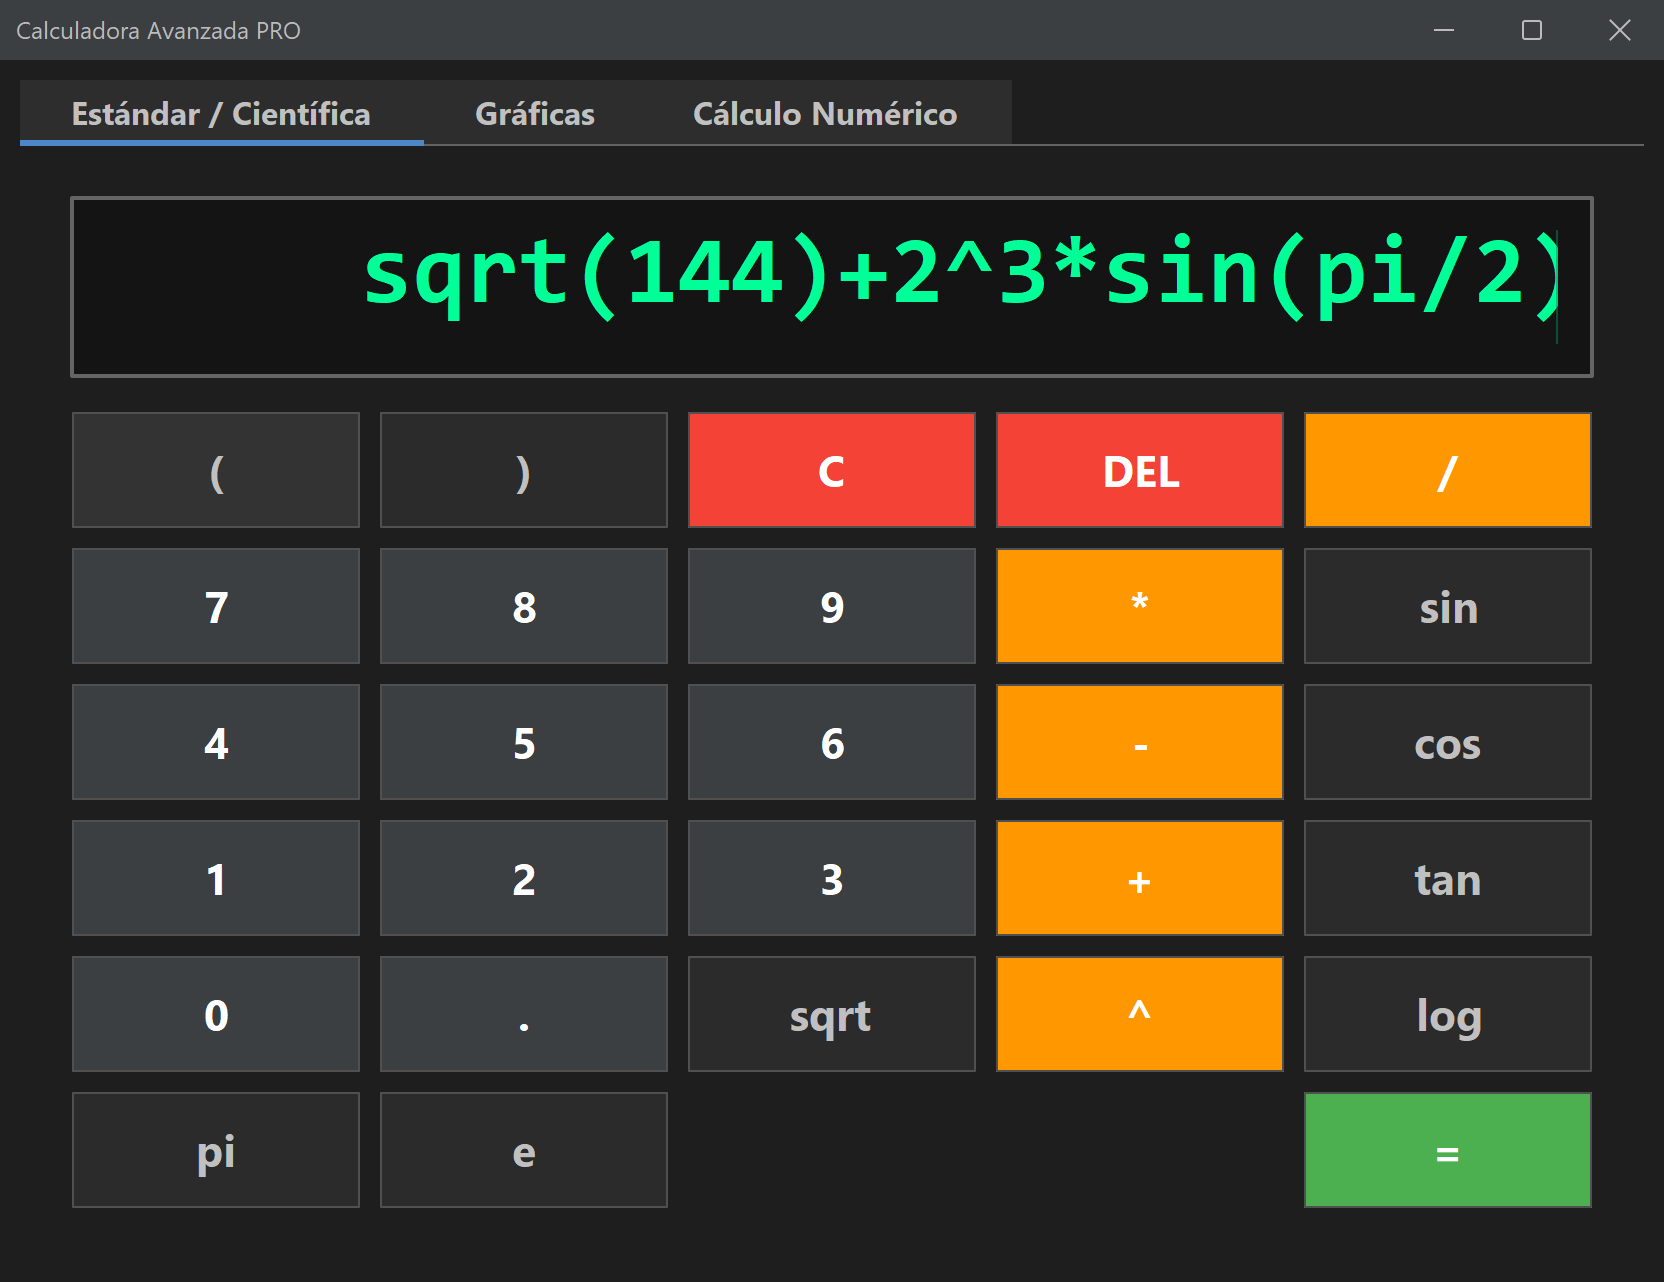
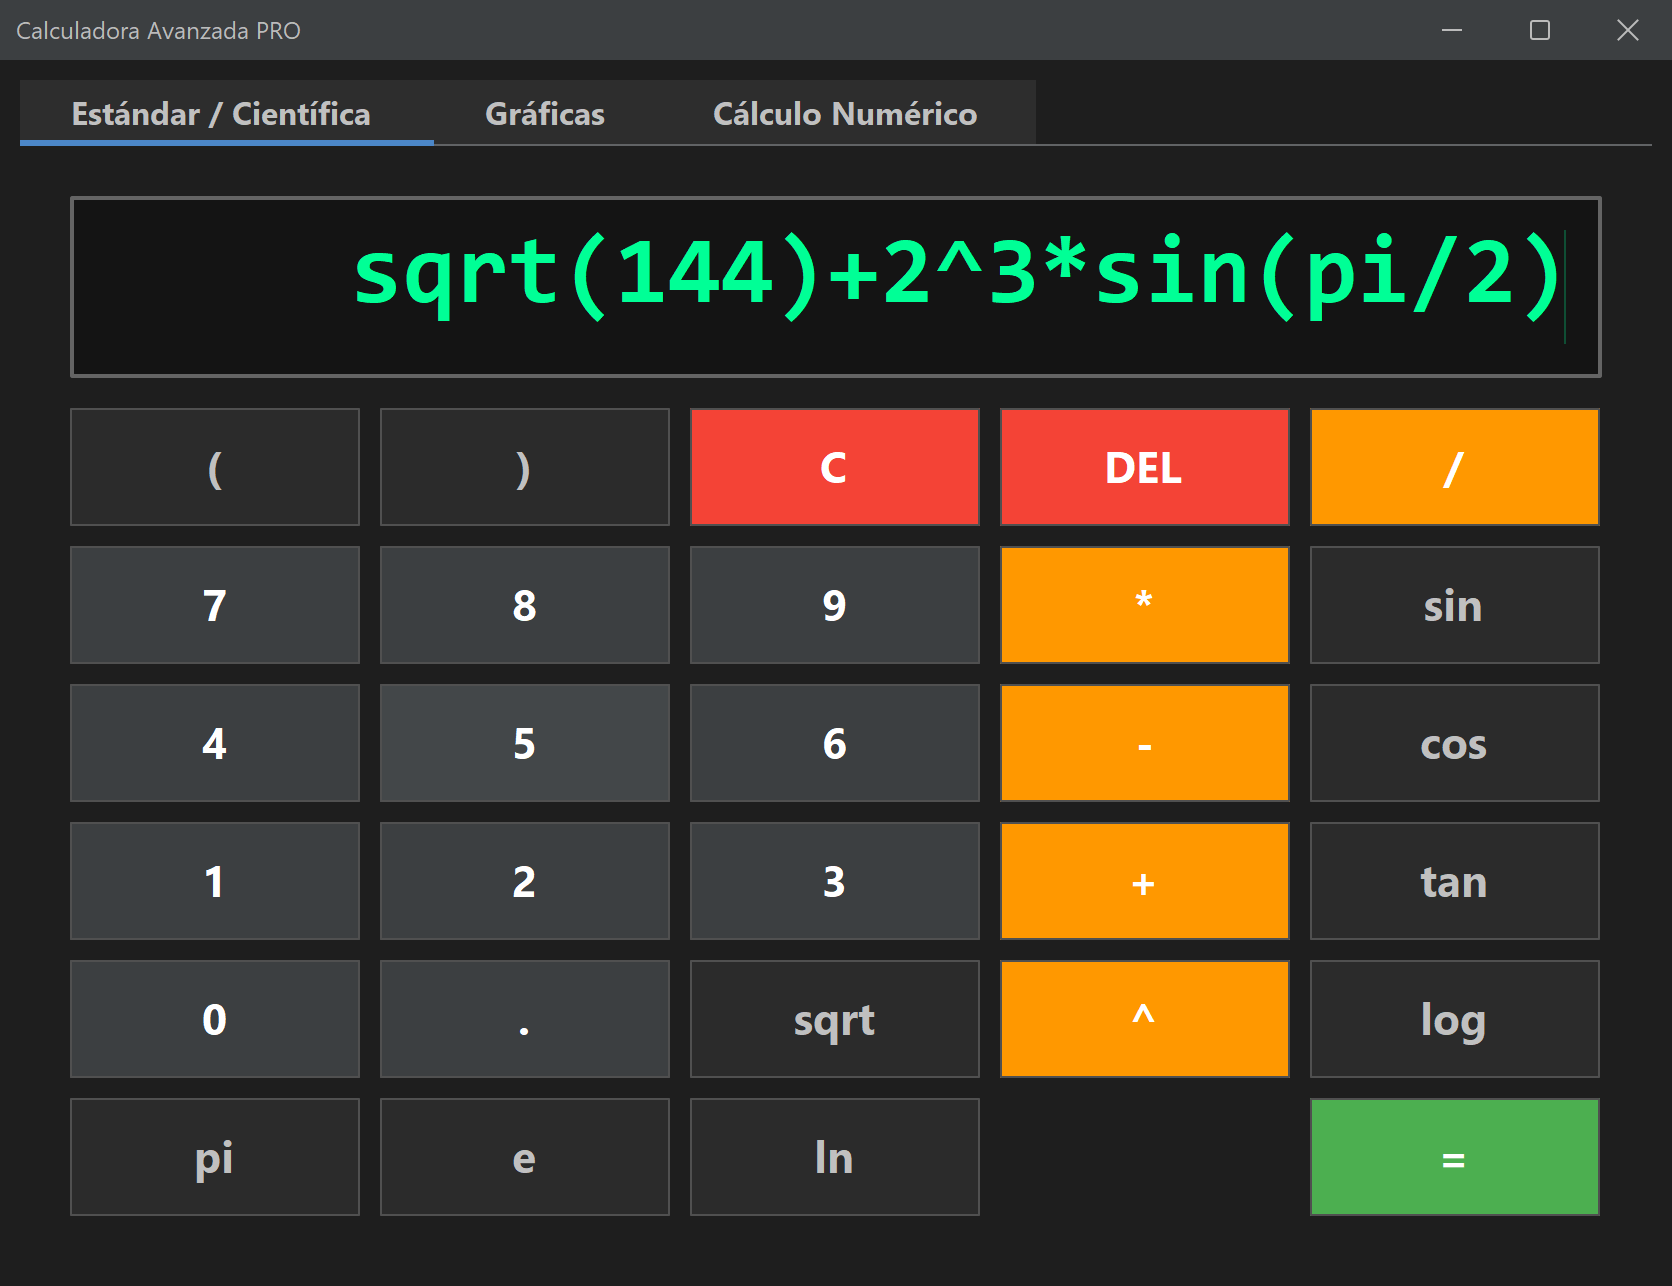
README actualizado con las nuevas funciones y capturas

diff --git a/README.md b/README.md
@@ -29,9 +29,9 @@ El proyecto sigue una separación tipo **MVC** (lógica matemática por un lado,
 
 | Módulo | Qué hace |
 |---|---|
-| **Estándar / Científica** | Operaciones `+ - * / ^`, paréntesis, `sin`, `cos`, `tan`, `sqrt`, `log`, constantes `pi` y `e`. |
-| **Gráficas** | Dibuja cualquier `f(x)` entre un `X mín` y un `X máx` con 800 puntos de muestreo. |
-| **Derivada** | Derivada numérica en un punto mediante **diferencias finitas centrales**. |
+| **Estándar / Científica** | Operaciones `+ - * / ^`, paréntesis, `sin`, `cos`, `tan`, `sqrt`, `log`, `ln`, constantes `pi` y `e`. Resultados limpios (`0.1+0.2 = 0.3`) y notación científica para números muy grandes o pequeños. |
+| **Gráficas** | Dibuja cualquier `f(x)` entre un `X mín` y un `X máx` con 800 puntos de muestreo. Deja huecos donde la función no existe y corta la línea en las asíntotas (`1/x`, `tan(x)`). |
+| **Derivada** | Derivada numérica en un punto mediante **diferencias finitas centrales** con paso adaptado a la magnitud de `x`. |
 | **Integral definida** | Integral en `[a, b]` mediante la **regla de Simpson 1/3** (1000 subintervalos). |
 | **Tema oscuro** | Interfaz moderna con **FlatLaf** (Dark). |
 
@@ -64,6 +64,7 @@ src/main/java/com/calculadora
 │   └── Main.java            → Punto de entrada, aplica el tema FlatLaf
 ├── math                     → Modelo (lógica pura)
 │   ├── EvaluadorMath.java   → Evalúa expresiones y funciones f(x)
+│   ├── FormatoNumero.java   → Presenta los resultados de forma legible
 │   └── Calculus.java        → Derivada (diferencias centrales) e integral (Simpson)
 └── gui                      → Vista / Controlador
     ├── MainFrame.java       → Ventana principal con pestañas
@@ -111,13 +112,14 @@ java -jar target/calculadora-avanzada-1.0-SNAPSHOT-jar-with-dependencies.jar
 | `2^3` | Potencia (2³) |
 | `sqrt(x)` | Raíz cuadrada |
 | `sin(x)`, `cos(x)`, `tan(x)` | Trigonométricas (en **radianes**) |
-| `log(x)` | Logaritmo **natural** (ln) |
-| `log10(x)`, `log2(x)` | Logaritmo en base 10 y base 2 |
+| `log(x)` | Logaritmo en **base 10** |
+| `ln(x)` | Logaritmo **natural** |
+| `log2(x)` | Logaritmo en base 2 |
 | `abs(x)`, `exp(x)`, `cbrt(x)` | Valor absoluto, eˣ, raíz cúbica |
 | `pi`, `e` | Constantes π y e |
 | `2pi`, `3(x+1)` | Multiplicación implícita |
 
-> 💡 En los modos **Gráficas** y **Cálculo Numérico** la variable debe llamarse `x`.
+> 💡 En los modos **Gráficas** y **Cálculo Numérico** la variable debe llamarse `x`. Los límites y el punto de evaluación también aceptan expresiones, por ejemplo `pi/2` o `-2*pi`.
 
 ---
 
